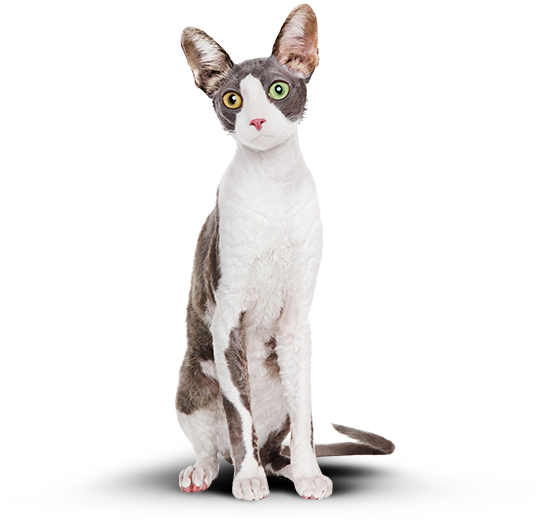
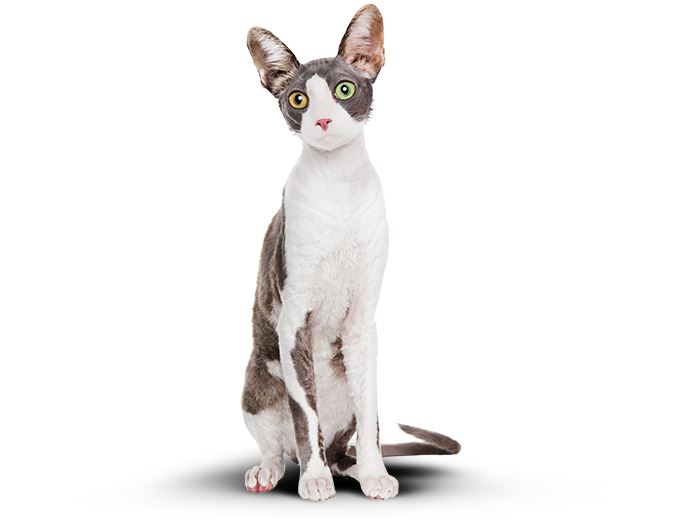
Реализуй слайдер для больших экранов

Changed region(s): [[0.1872, 0.0, 0.7486, 0.9846], [0.5615, 0.4615, 0.5927, 0.5846], [0.4991, 0.5846, 0.5303, 0.6154]]

diff --git a/source/index.html b/source/index.html
@@ -111,18 +111,22 @@
           </dl>
           <div class="result-example__slider slider">
             <div class="slider__items">
-              <picture>
-                <source type="image/webp" media="(min-width: 768px)" srcset="img/slider/cat-fat-big-screen.webp 1x, img/slider/cat-fat-big-screen@2x.webp 2x">
-                <source type="image/webp" srcset="img/slider/cat-fat-mobile.webp 1x,img/slider/cat-fat-mobile@2x.webp 2x">
-                <source media="(min-width: 768px)" srcset="img/slider/cat-fat-big-screen.png 1x, img/slider/cat-fat-big-screen@2x.png 2x">
-                <img class="slider__before" src="img/slider/cat-fat-mobile.png" srcset="img/slider/cat-fat-mobile@2x.png 2x" width="280" height="232" alt="Кот Борис с большим избыточном весом перед тем, как начать диету основанной на корме Cat Energy Slim. Окрас кота серо белый, а глаза разноцветные (один зелёный, другой жёлтый).">
-              </picture>
-              <picture>
-                <source type="image/webp" media="(min-width: 768px)" srcset="img/slider/cat-skinny-big-screen.webp 1x, img/slider/cat-skinny-big-screen@2x.webp 2x">
-                <source type="image/webp" srcset="img/slider/cat-skinny-mob.webp 1x, img/slider/cat-skinny-mob@2x.webp 2x">
-                <source media="(min-width: 768px)" srcset="img/slider/cat-skinny-big-screen.png 1x, img/slider/cat-skinny-big-screen@2x.png 2x">
-                <img class="slider__after" src="img/slider/cat-skinny-mob.png" srcset="img/slider/cat-skinny-mob@2x.png 2x" width="251" height="240" alt="Тот же самый кот Борис, но теперь с очень стройной фигурой, которую он получил благодоря диете, основанной на корме Cat Energy Slim." hidden>
-              </picture>
+              <div class="slider__item-container slider__item-container--before">
+                <picture>
+                  <source type="image/webp" media="(min-width: 768px)" srcset="img/slider/cat-fat-big-screen.webp 1x, img/slider/cat-fat-big-screen@2x.webp 2x">
+                  <source type="image/webp" srcset="img/slider/cat-fat-mobile.webp 1x,img/slider/cat-fat-mobile@2x.webp 2x">
+                  <source media="(min-width: 768px)" srcset="img/slider/cat-fat-big-screen.png 1x, img/slider/cat-fat-big-screen@2x.png 2x">
+                  <img class="slider__before" src="img/slider/cat-fat-mobile.png" srcset="img/slider/cat-fat-mobile@2x.png 2x" width="280" height="232" alt="Кот Борис с большим избыточном весом перед тем, как начать диету основанной на корме Cat Energy Slim. Окрас кота серо белый, а глаза разноцветные (один зелёный, другой жёлтый).">
+                </picture>
+              </div>
+              <div class="slider__item-container slider__item-container--after">
+                <picture>
+                  <source type="image/webp" media="(min-width: 768px)" srcset="img/slider/cat-skinny-big-screen.webp 1x, img/slider/cat-skinny-big-screen@2x.webp 2x">
+                  <source type="image/webp" srcset="img/slider/cat-skinny-mob.webp 1x, img/slider/cat-skinny-mob@2x.webp 2x">
+                  <source media="(min-width: 768px)" srcset="img/slider/cat-skinny-big-screen.png 1x, img/slider/cat-skinny-big-screen@2x.png 2x">
+                  <img class="slider__after" src="img/slider/cat-skinny-mob.png" srcset="img/slider/cat-skinny-mob@2x.png 2x" width="251" height="240" alt="Тот же самый кот Борис, но теперь с очень стройной фигурой, которую он получил благодоря диете, основанной на корме Cat Energy Slim." hidden>
+                </picture>
+              </div>
             </div>
             <div class="slider__toggle toggle" hidden>
               <button class="toggle__button toggle__before">Было</button>

diff --git a/source/sass/blocks/slider.scss b/source/sass/blocks/slider.scss
@@ -2,11 +2,12 @@
   max-width: 100%;
   width: 280px;
   height: 232px;
-  object-fit: contain;
+  object-fit: cover;
 
   @media (min-width: 768px) {
     width: 677px;
     height: 520px;
+    object-position: 0%;
   }
 }
 
@@ -14,11 +15,13 @@
   max-width: 100%;
   width: 251px;
   height: 240px;
-  object-fit: contain;
+  object-fit: cover;
 
   @media (min-width: 768px) {
+    display: block;
     width: 545px;
     height: 520px;
+    object-position: 92%;
   }
 }
 
@@ -27,10 +30,29 @@
 
   @media (min-width: 768px) {
     margin-bottom: 10px;
+    width: 677px;
+    height: 520px;
+    position: relative;
   }
 
   @media (min-width: 1280px) {
     align-self: flex-end;
     margin-bottom: 19px;
+  }
+}
+
+.slider__item-container {
+  @media (min-width: 768px) {
+    position: absolute;
+
+    &--before {
+      width: 50%;
+    }
+
+    &--after {
+      width: 50%;
+      right: 0;
+      z-index: -5;
+    }
   }
 }
